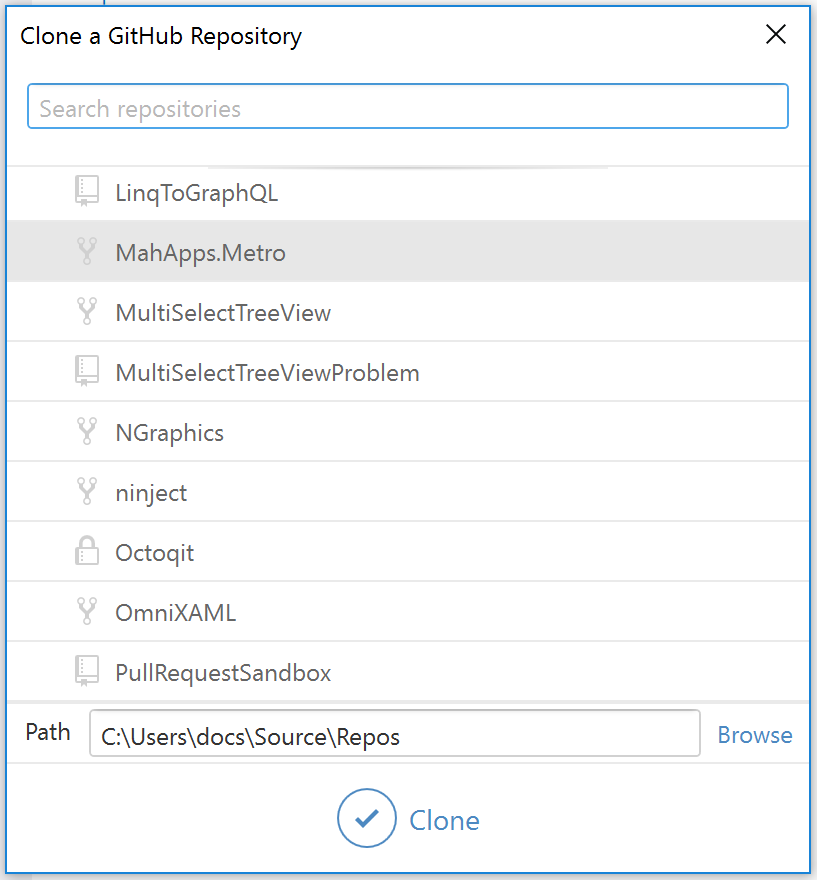
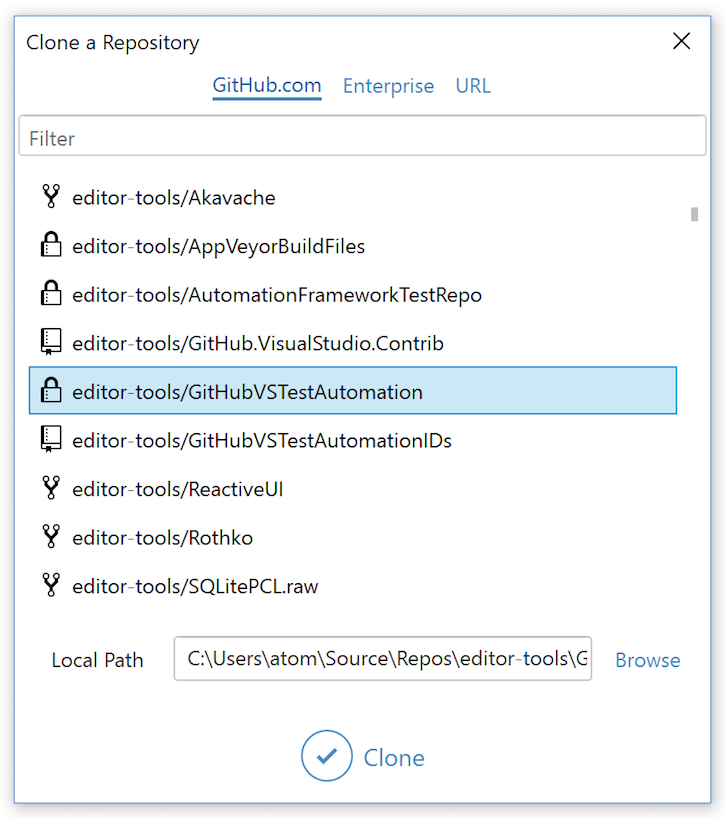
update clone documentation

Changed region(s): [[0.0, 0.0, 1.0, 1.0]]

diff --git a/docs/using/cloning-a-repository-to-visual-studio.md b/docs/using/cloning-a-repository-to-visual-studio.md
@@ -11,9 +11,14 @@ After you provide your GitHub or GitHub Enterprise credentials to GitHub for Vis
 
 ![Clone button in the GitHub section of Team Explorer](images/clone-link.png)
 
-4. In the list of repositories, click the repository you'd like to clone.
+4. In the list of repositories, scroll until you find the repository you'd like to clone. You can also filter the repository results by using the *Filter* text box.
 
 ![List of GitHub repositories that can be cloned inside a dialog](images/clone-dialog.png)
 
-5. If desired, change the local path where the repository will be cloned into, or leave the default as-is. Click **Clone**.
-6. In Team Explorer, under the list of repositories, locate the repository and double-click to open the project in Visual Studio.
+In addition to using the list of repositories, you can use the URL tab to clone a repository by it's URL or using the repository owner and name.
+
+![List of GitHub repositories that can be cloned inside a dialog](images/clone-url-dialog.png)
+
+5. If desired, change the local path where the repository will be cloned into, or leave the default as-is.
+6. Once a repository is selected and the path is set, Click **Clone**.
+7. In Team Explorer, under the list of repositories, locate the repository and double-click to open the project in Visual Studio.
